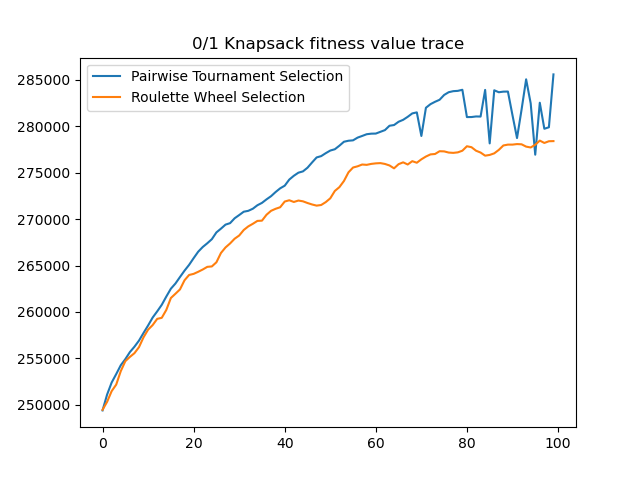
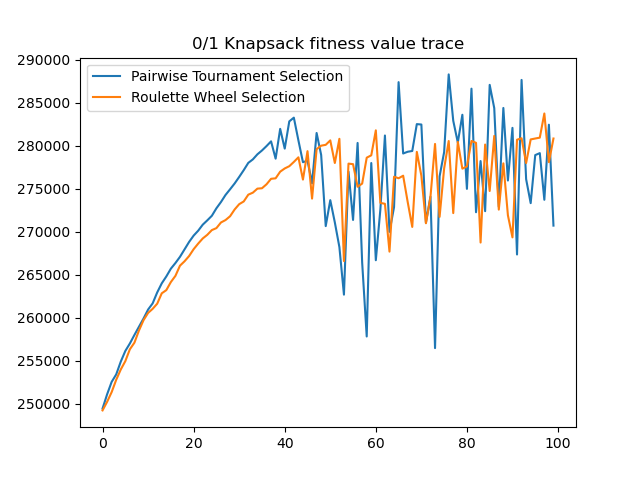
feat: 과제 2번

diff --git a/GA.py b/GA.py
@@ -95,8 +95,29 @@ class Population:
     #########
     def uniform_crossover(self,prob,gene_prob=0.5):
         """ TODO: 필수 구현 """
-        print("이름: 학번") # 학생 수행 확인용입니다. 
-        pass
+        print("박진현: 242122") # 학생 수행 확인용입니다. 
+        
+        # 개체의 인덱스를 무작위 선택하기 위한 작업, crossover와 동일한 로직
+        number = len(self._pop)
+        idx = rng.permutation(number)
+        halfnumber = number // 2
+
+        for i in range(halfnumber):
+            # 무모 개체 선택
+            a = self._pop[idx[i]]
+            b = self._pop[idx[halfnumber + i]]
+            length = len(a)
+            
+            # 개체의 crossover 실행 여부
+            if true(prob):
+                for g in range(length):
+                    
+                    # 유전자의 crossover 실행 여부
+                    if true(gene_prob):
+                        # 부모의 유전자 교환
+                        a[g], b[g] = b[g], a[g]
+        return self
+
     #########
     def mutation(self, prob):
         """Mutation"""
@@ -213,7 +234,7 @@ class KnapsackProblem:
             if gen % 10 == 0:
                 print(f"RWS Generation {gen:3d}: Max Fitness = {current_max:.6f}")
                 
-            generation.selection("RWS").crossover(self.Pc).mutation(self.Pm)
+            generation.selection("RWS").uniform_crossover(self.Pc).mutation(self.Pm)
 
         self.log = {"avg": fitavg, "max": fitmax, "pop": generation.pop}
         return generation.pop
@@ -238,7 +259,7 @@ class KnapsackProblem:
             if gen % 10 == 0:
                 print(f"TMS Generation {gen:3d}: Max Fitness = {current_max:.6f}")
                 
-            generation.selection("TMS").crossover(self.Pc).mutation(self.Pm)
+            generation.selection("TMS").uniform_crossover(self.Pc).mutation(self.Pm)
 
         self.log = {"avg": fitavg, "max": fitmax, "pop": generation.pop}
         return generation.pop
